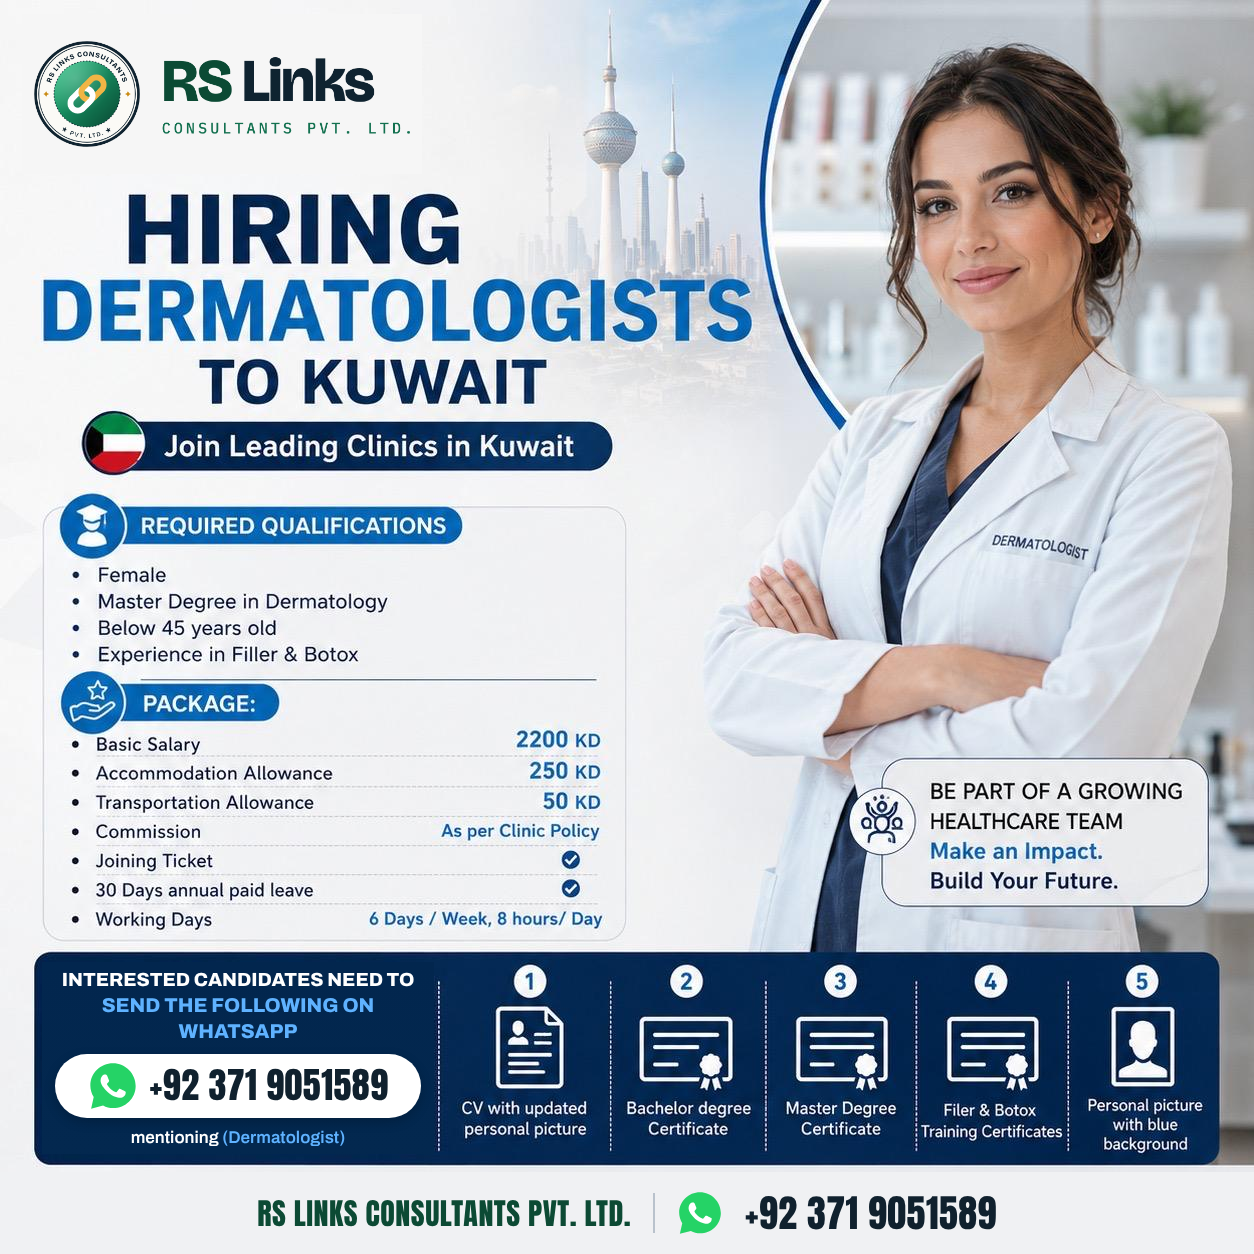
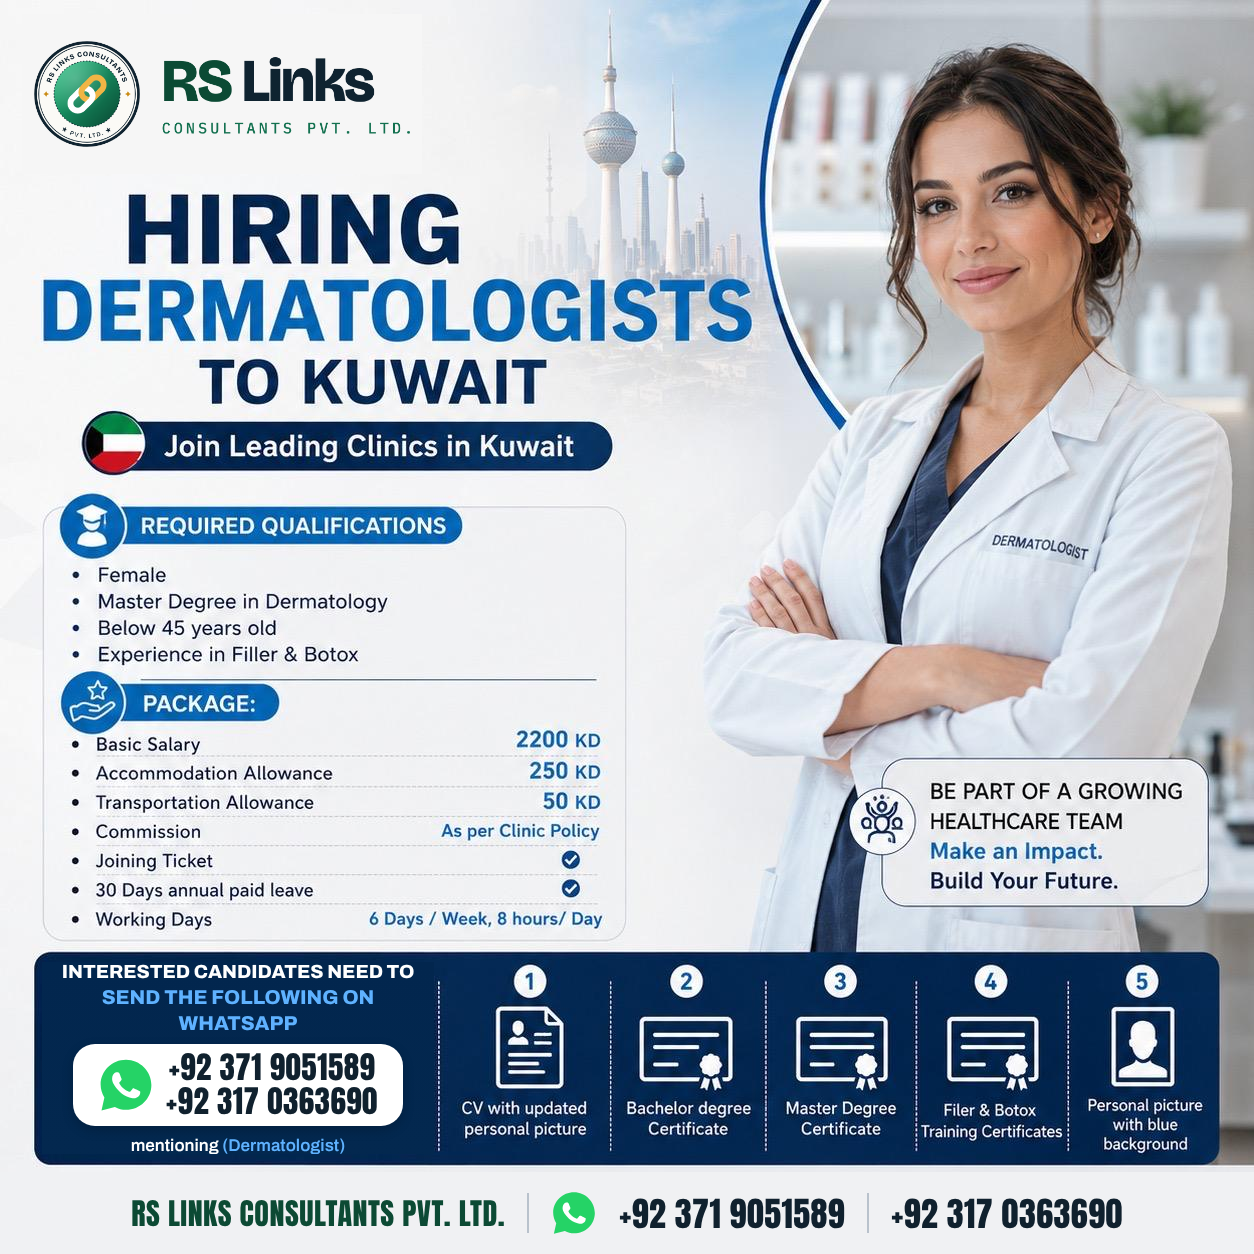
Kuwait ads: add second RS Links number +92 317 0363690
Claude-Session: https://claude.ai/code/session_01YJ5ofgU8QCiWTsYR9pvXG4

Changed region(s): [[0.0311, 0.7464, 0.9019, 0.9952]]

diff --git a/src/rebrand_kuwait.py b/src/rebrand_kuwait.py
@@ -9,11 +9,18 @@ from common import _launch
 SRC = Path(__file__).resolve().parent.parent / "demands" / "2026-10-10-kuwait-derma"
 S = 1254
 NAVY = "#03284F"
+PHONE2 = "+92 317 0363690"  # second RS Links number (user, 2026-10-10)
 
 
 def patch(x, y, w, h, bg, inner="", radius=0, extra=""):
     return (f"<div style='position:absolute;left:{x}px;top:{y}px;width:{w}px;height:{h}px;background:{bg};"
             f"border-radius:{radius}px;display:flex;align-items:center;justify-content:center;{extra}'>{inner}</div>")
+
+
+def wa_pill2(w, h, size=28):
+    nums = "".join(f"<div class='anton' style='font-size:{size}px;color:{C['navy2']};line-height:1.08'>{n}</div>" for n in (WHATSAPP, PHONE2))
+    return (f"<div style='display:flex;align-items:center;gap:12px;background:#fff;border-radius:22px;height:{h}px;width:{w}px;"
+            f"justify-content:center;box-shadow:0 4px 12px #0003'>{whatsapp_icon(min(h - 20, 56))}<div>{nums}</div></div>")
 
 
 def wa_pill(w, h, size=40, label=None):
@@ -36,8 +43,8 @@ def ad_dermatologist():
     p.append(patch(42, 962, 392, 192, "linear-gradient(180deg,#02264E,#03284F)",
                    "<div style='text-align:center'>"
                    "<div style='font-family:Archivo;font-weight:800;font-size:19px;color:#fff;line-height:1.2'>INTERESTED CANDIDATES NEED TO</div>"
-                   f"<div style='font-family:Archivo;font-weight:800;font-size:20px;color:#5FB2FF;line-height:1.3;margin-bottom:10px'>SEND THE FOLLOWING ON WHATSAPP</div>"
-                   f"<div style='display:flex;justify-content:center'>{wa_pill(366, 64, 36)}</div>"
+                   f"<div style='font-family:Archivo;font-weight:800;font-size:20px;color:#5FB2FF;line-height:1.3;margin-bottom:8px'>SEND THE FOLLOWING ON WHATSAPP</div>"
+                   f"<div style='display:flex;justify-content:center'>{wa_pill2(330, 82, 31)}</div>"
                    "<div style='font-family:Archivo;font-weight:600;font-size:17px;color:#fff;margin-top:10px'>"
                    "mentioning <span style='color:#5FB2FF'>(Dermatologist)</span></div></div>"))
     # footer: social handles, website, Arabic slogan
@@ -45,7 +52,9 @@ def ad_dermatologist():
                    "<div style='display:flex;align-items:center;gap:22px'>"
                    f"<div style='font-family:Anton;font-size:30px;color:{C['green']};letter-spacing:.5px'>RS LINKS CONSULTANTS PVT. LTD.</div>"
                    "<div style='width:2px;height:40px;background:#B9C2CC'></div>"
-                   f"{whatsapp_icon(46)}<div class='anton' style='font-size:38px;color:{C['navy2']}'>{WHATSAPP}</div></div>"))
+                   f"{whatsapp_icon(46)}<div class='anton' style='font-size:34px;color:{C['navy2']}'>{WHATSAPP}</div>"
+                   f"<div style='width:2px;height:40px;background:#B9C2CC'></div>"
+                   f"<div class='anton' style='font-size:34px;color:{C['navy2']}'>{PHONE2}</div></div>"))
     return p
 
 
@@ -53,14 +62,14 @@ def ad_consultant():
     p = []
     p.append(patch(44, 16, 420, 160, "#FBFBFD", logo_plate(410, 150), 18, "box-shadow:0 4px 14px #0002"))
     # "How to Apply" intro lines inside the right card
-    p.append(patch(926, 728, 296, 92, "linear-gradient(180deg,#132F57,#082D57)",
-                   "<div style='font-family:Archivo;font-size:15.5px;line-height:1.35;color:#E8EEF7;width:280px'>"
+    p.append(patch(926, 726, 296, 98, "linear-gradient(180deg,#132F57,#082D57)",
+                   "<div style='font-family:Archivo;font-size:14.5px;line-height:1.3;color:#E8EEF7;width:284px'>"
                    "Interested candidates need to send the following on WhatsApp "
-                   f"<b style='color:#5FB2FF;white-space:nowrap'>{WHATSAPP}</b> mentioning <b>(Dermatology Consultant)</b>.</div>"))
+                   f"<b style='color:#5FB2FF;white-space:nowrap'>{WHATSAPP}</b> / <b style='color:#5FB2FF;white-space:nowrap'>{PHONE2}</b> mentioning <b>(Dermatology Consultant)</b>.</div>"))
     # "Send your application to" box: replace email pill + subject line
-    p.append(patch(190, 1060, 370, 98, "linear-gradient(180deg,#012B56,#012748)",
-                   f"<div style='text-align:center'>{wa_pill(354, 56, 32)}"
-                   "<div style='font-family:Archivo;font-size:15px;color:#fff;margin-top:6px'>Mention <b>(Dermatology Consultant)</b> in your message.</div></div>"))
+    p.append(patch(190, 1056, 370, 106, "linear-gradient(180deg,#012B56,#012748)",
+                   f"<div style='text-align:center'>{wa_pill2(330, 74, 27)}"
+                   "<div style='font-family:Archivo;font-size:14px;color:#fff;margin-top:3px'>Mention <b>(Dermatology Consultant)</b> in your message.</div></div>"))
     p.append(patch(190, 1024, 372, 36, "#012D58",
                    "<div style='font-family:Archivo;font-size:19px;color:#fff;width:360px'>Send your application on WhatsApp:</div>"))
     # envelope icon circle -> WhatsApp icon
